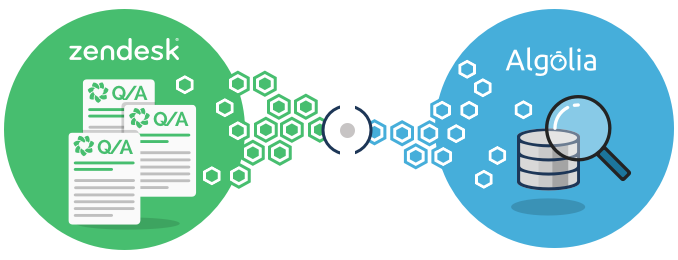
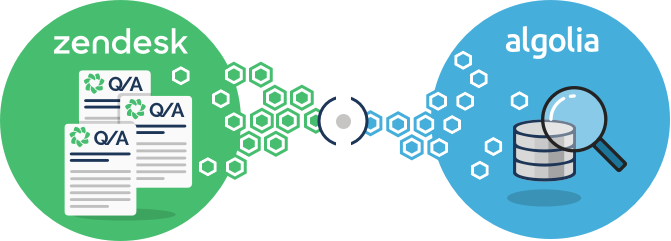
Updates

Changed region(s): [[0.0, 0.0, 0.7452, 1.0], [0.6557, 0.0, 1.0, 1.0], [0.7452, 0.1162, 0.8942, 0.2905]]

diff --git a/index.html b/index.html
@@ -21,8 +21,8 @@
   <div class="ac-nav-container">
     <div class="ac-nav-brand">
       <a class="ac-logo" href="https://community.algolia.com/" title="Algolia Community">
-        <img alt="Algolia Community" class="ac-logo__lg" src="https://res.cloudinary.com/hilnmyskv/image/upload/logo-community-inline-dark.svg" width="150">
-        <img alt="Algolia Community" class="ac-logo__sm" src="https://res.cloudinary.com/hilnmyskv/image/upload/v1461180081/logo-community-sm.svg">
+        <img alt="Algolia Community" class="ac-logo__lg" src="https://res.cloudinary.com/hilnmyskv/image/upload/v1484217596/algolia-community-logo-darkbg.svg" width="150">
+        <img alt="Algolia Community" class="ac-logo__sm" src="img/logo-community.svg">
       </a>
       <span class="ac-nav-brand-breadcrumb"></span>
       <a class="ac-nav-brand-title" href="/zendesk/" title="Home">Zendesk</a>
@@ -58,13 +58,13 @@
         <div class='col-sm-12'>
           <h1 class='row'>
             <div class='col-xs-12 jumbotron--hero-title jumbotron--algolia-logo'>
-              <img alt='Algolia' src='/zendesk/img/algolia-logo-white.svg' width='190'>
+              <img alt='Algolia' src='/zendesk/img/algolia-logo-dargkbg.svg' width='280'>
             </div>
             <div class='col-xs-12 jumbotron--hero-title'>
               <small>for</small>
             </div>
             <div class='col-xs-12 jumbotron--hero-title jumbotron--zendesk-logo'>
-              <img alt='Zendesk' src='/zendesk/img/zendesk-logo.svg' width='340'>
+              <img alt='Zendesk' src='/zendesk/img/zendesk-logo-white.svg' width='300'>
             </div>
           </h1>
         </div>
@@ -240,9 +240,9 @@
   </div>
   <div class='ac-footer-container ac-footer-brand'>
     <p>This project is part of</p>
-    <img class='ac-footer-brand-icon' src='https://res.cloudinary.com/hilnmyskv/image/upload/logo-community.svg'>
+    <img class='ac-footer-brand-icon' src='/zendesk/img/community-badge.svg'>
     <figure>
-      <img class='ac-footer-brand-logo' src='https://res.cloudinary.com/hilnmyskv/image/upload/v1463417234/algolia-community_n6tixd.svg'>
+      <img class='ac-footer-brand-logo' src='https://res.cloudinary.com/hilnmyskv/image/upload/v1484219849/algolia-community-logo-words-darkbg.svg'>
       <figcaption>Algolia Community</figcaption>
     </figure>
     <a class='ac-footer-btn ac-footer-btn-cta' href='https://community.algolia.com/'>See More</a>

diff --git a/documentation/index.html b/documentation/index.html
@@ -21,8 +21,8 @@
   <div class="ac-nav-container">
     <div class="ac-nav-brand">
       <a class="ac-logo" href="https://community.algolia.com/" title="Algolia Community">
-        <img alt="Algolia Community" class="ac-logo__lg" src="https://res.cloudinary.com/hilnmyskv/image/upload/logo-community-inline-dark.svg" width="150">
-        <img alt="Algolia Community" class="ac-logo__sm" src="https://res.cloudinary.com/hilnmyskv/image/upload/v1461180081/logo-community-sm.svg">
+        <img alt="Algolia Community" class="ac-logo__lg" src="https://res.cloudinary.com/hilnmyskv/image/upload/v1484217596/algolia-community-logo-darkbg.svg" width="150">
+        <img alt="Algolia Community" class="ac-logo__sm" src="img/logo-community.svg">
       </a>
       <span class="ac-nav-brand-breadcrumb"></span>
       <a class="ac-nav-brand-title" href="/zendesk/" title="Home">Zendesk</a>
@@ -507,9 +507,9 @@ Also, some templates are using a <code class="highlighter-rouge">compile</code> 
   </div>
   <div class='ac-footer-container ac-footer-brand'>
     <p>This project is part of</p>
-    <img class='ac-footer-brand-icon' src='https://res.cloudinary.com/hilnmyskv/image/upload/logo-community.svg'>
+    <img class='ac-footer-brand-icon' src='/zendesk/img/community-badge.svg'>
     <figure>
-      <img class='ac-footer-brand-logo' src='https://res.cloudinary.com/hilnmyskv/image/upload/v1463417234/algolia-community_n6tixd.svg'>
+      <img class='ac-footer-brand-logo' src='https://res.cloudinary.com/hilnmyskv/image/upload/v1484219849/algolia-community-logo-words-darkbg.svg'>
       <figcaption>Algolia Community</figcaption>
     </figure>
     <a class='ac-footer-btn ac-footer-btn-cta' href='https://community.algolia.com/'>See More</a>

diff --git a/about/index.html b/about/index.html
@@ -21,8 +21,8 @@
   <div class="ac-nav-container">
     <div class="ac-nav-brand">
       <a class="ac-logo" href="https://community.algolia.com/" title="Algolia Community">
-        <img alt="Algolia Community" class="ac-logo__lg" src="https://res.cloudinary.com/hilnmyskv/image/upload/logo-community-inline-dark.svg" width="150">
-        <img alt="Algolia Community" class="ac-logo__sm" src="https://res.cloudinary.com/hilnmyskv/image/upload/v1461180081/logo-community-sm.svg">
+        <img alt="Algolia Community" class="ac-logo__lg" src="https://res.cloudinary.com/hilnmyskv/image/upload/v1484217596/algolia-community-logo-darkbg.svg" width="150">
+        <img alt="Algolia Community" class="ac-logo__sm" src="img/logo-community.svg">
       </a>
       <span class="ac-nav-brand-breadcrumb"></span>
       <a class="ac-nav-brand-title" href="/zendesk/" title="Home">Zendesk</a>
@@ -80,9 +80,9 @@
   </div>
   <div class='ac-footer-container ac-footer-brand'>
     <p>This project is part of</p>
-    <img class='ac-footer-brand-icon' src='https://res.cloudinary.com/hilnmyskv/image/upload/logo-community.svg'>
+    <img class='ac-footer-brand-icon' src='/zendesk/img/community-badge.svg'>
     <figure>
-      <img class='ac-footer-brand-logo' src='https://res.cloudinary.com/hilnmyskv/image/upload/v1463417234/algolia-community_n6tixd.svg'>
+      <img class='ac-footer-brand-logo' src='https://res.cloudinary.com/hilnmyskv/image/upload/v1484219849/algolia-community-logo-words-darkbg.svg'>
       <figcaption>Algolia Community</figcaption>
     </figure>
     <a class='ac-footer-btn ac-footer-btn-cta' href='https://community.algolia.com/'>See More</a>

diff --git a/css/main.css b/css/main.css
@@ -3814,8 +3814,8 @@ h3 {
     margin-left: 4px; } }
 .jumbotron--zendesk-logo img {
   position: relative;
-  top: -0.26em;
-  max-width: 95%; }
+  max-width: 95%;
+  vertical-align: inherit; }
 
 .headline {
   text-align: center;
